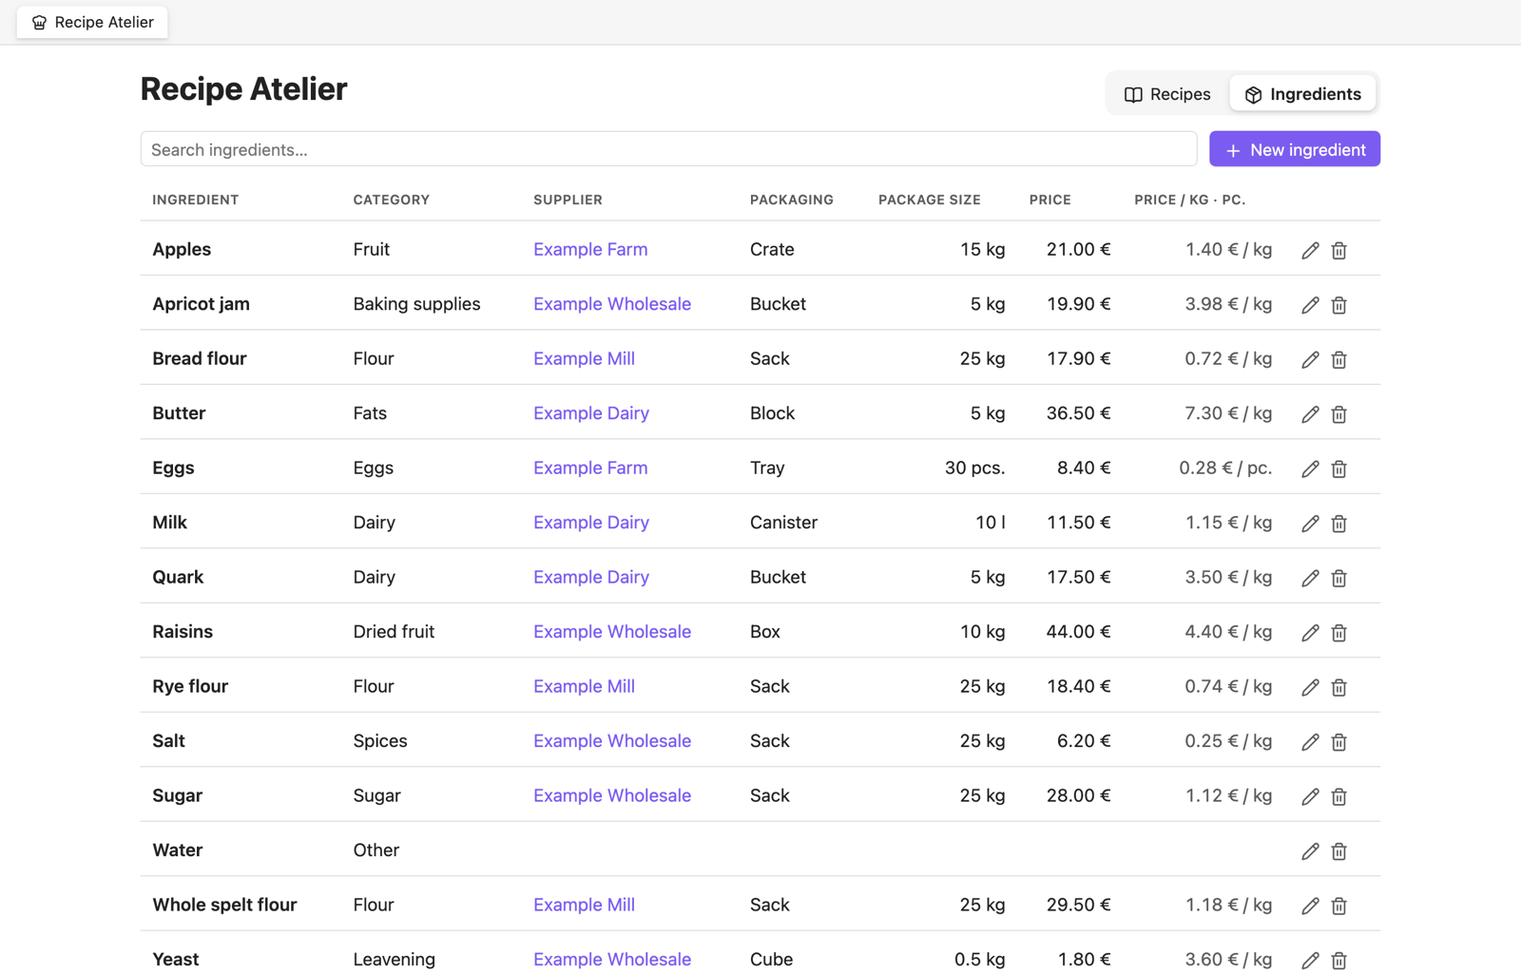
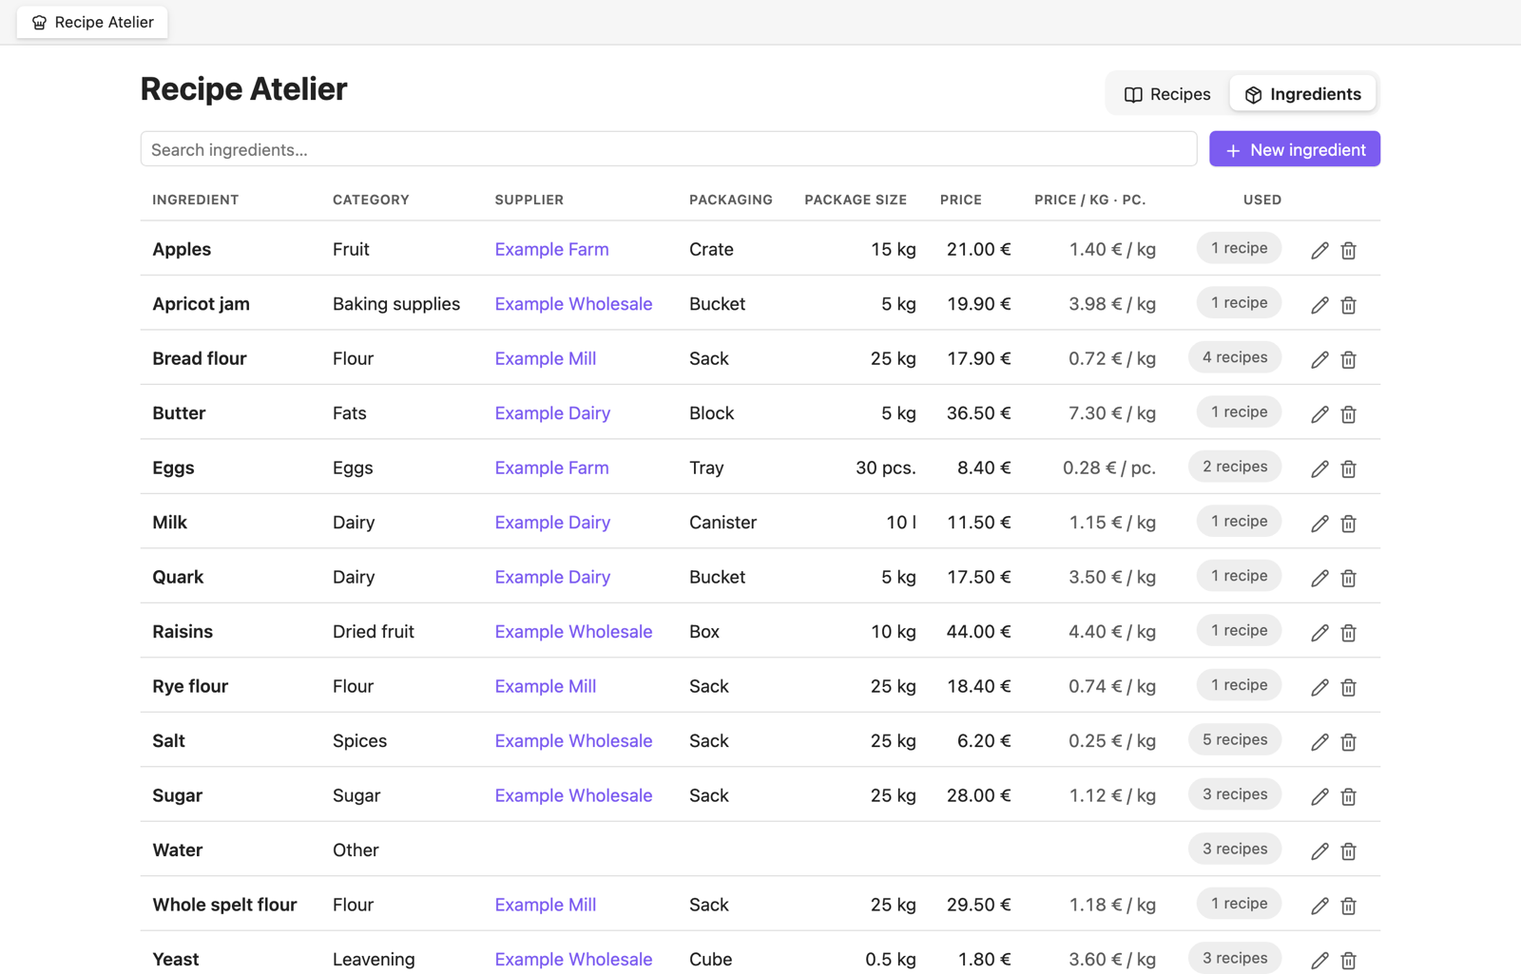
1.1.0: show where an ingredient is used, navigate from ingredient to recipes

diff --git a/main.js b/main.js
@@ -301,7 +301,19 @@ const EN = {
  "Komma getrennt. Jede Kategorie bekommt einen Unterordner im Rezeptordner.": "Comma separated. Each category gets a sub-folder in the recipe folder.",
  "Sprache": "Language",
  "Sprache der Oberfläche. „Automatisch“ folgt der Sprache von Obsidian.": "Language of the interface. “Automatic” follows the language of Obsidian.",
- "Automatisch (wie Obsidian)": "Automatic (same as Obsidian)"
+ "Automatisch (wie Obsidian)": "Automatic (same as Obsidian)",
+ "1 Rezept": "1 recipe",
+ " Rezepte": " recipes",
+ "Verwendet in 1 Rezept": "Used in 1 recipe",
+ "Verwendet in ": "Used in ",
+ " Rezepten": " recipes",
+ "Verwendet": "Used",
+ "Nach Verwendung sortieren": "Sort by usage",
+ "Nicht verwendet": "Not used",
+ "Verwendung: ": "Usage: ",
+ "Keine Rezepte verwenden diesen Rohstoff.": "No recipe uses this ingredient.",
+ "Gesamt in allen Rezepten: ": "Total across all recipes: ",
+ "Rezepte mit diesem Rohstoff": "Recipes using this ingredient"
 };
 /** Schlüssel sind die deutschen Texte; bei Englisch wird übersetzt. */
 const tx = (k) => (LANG === "de" ? k : EN[k] !== undefined ? EN[k] : k);
@@ -419,7 +431,7 @@ function newRecipe(title, category) {
     totalLabel: "", parts: [], params: [], steps: [], photo: "", notes: "",
   };
   if (catKind(category) === "bake") {
-    const p = newPart("Teig", "percent");
+    const p = newPart(tx("Teig"), "percent");
     p.baseRef = "ingredient";
     p.ingredients.push(newIng({ name: tx("Mehl"), percent: 100, base: true }));
     p.ingredients.push(newIng({ name: tx("Wasser"), percent: 60 }));
@@ -924,6 +936,33 @@ class RecipeManagerPlugin extends Plugin {
     this.ingredients().forEach((i) => { const p = this.pricePerBase(i); if (p) m.set(i.name.trim().toLowerCase(), p); });
     return m;
   }
+  /** Rohstoff-Verwendung: Name (klein) → Map(Rezeptpfad → {file, title, category, parts, grams, amounts}) */
+  async usageIndex() {
+    const idx = new Map();
+    for (const f of this.recipeFiles()) {
+      let data = null;
+      try { data = extractData(await this.app.vault.cachedRead(f)); } catch (e) { data = null; }
+      if (!data) continue;
+      const calc = calcRecipe(data);
+      data.parts.forEach((p) => {
+        const pc = calc.parts[p.id];
+        if (!pc) return;
+        pc.rows.forEach((row) => {
+          const n = String(row.ing.name || "").trim().toLowerCase();
+          if (!n || row.ing.refPart) return;
+          let e = idx.get(n);
+          if (!e) { e = new Map(); idx.set(n, e); }
+          let u = e.get(f.path);
+          if (!u) { u = { file: f, title: data.title || f.basename, category: data.category, parts: [], grams: 0, amounts: [] }; e.set(f.path, u); }
+          u.parts.push(p.name);
+          if (row.grams != null) u.grams += row.grams;
+          else if (row.amount) u.amounts.push(fmt(row.amount, 3) + " " + row.unit);
+        });
+      });
+    }
+    return idx;
+  }
+
   async saveIngredient(existing, v) {
     const name = safeName(v.name);
     if (!name) throw new Error(tx("Name fehlt"));
@@ -1047,16 +1086,16 @@ function renderRecipeCard(container, data, plugin, sourcePath) {
     };
     if (calc.total > 0) stat(r.totalLabel || tx("Gesamtgewicht"), plugin.weightText(calc.total));
     if (r.yield.mode === "pieces" && calc.pieces != null) {
-      stat("Stück à " + fmt(r.yield.pieceWeight, 1) + " g", tx("ca. ") + fmt(calc.pieces, 1));
-      if (calc.bakedPiece) stat("Gebäckgewicht (−" + fmt(r.yield.bakeLoss, 1) + " %)", fmt(calc.bakedPiece, 1) + " g");
+      stat(tx("Stück à ") + fmt(r.yield.pieceWeight, 1) + " g", tx("ca. ") + fmt(calc.pieces, 1));
+      if (calc.bakedPiece) stat(tx("Gebäckgewicht (−") + fmt(r.yield.bakeLoss, 1) + " %)", fmt(calc.bakedPiece, 1) + " g");
     }
-    if (r.yield.mode === "portions" && r.yield.portions) stat("Portionen", fmt(r.yield.portions, 1));
-    if (r.yield.mode === "trays" && r.yield.portions) stat("Blech" + (r.yield.traySize ? " " + r.yield.traySize : ""), fmt(r.yield.portions, 2));
+    if (r.yield.mode === "portions" && r.yield.portions) stat(tx("Portionen"), fmt(r.yield.portions, 1));
+    if (r.yield.mode === "trays" && r.yield.portions) stat(tx("Blech") + (r.yield.traySize ? " " + r.yield.traySize : ""), fmt(r.yield.portions, 2));
     if (hasCost) {
-      stat("Materialkosten", plugin.money(cost));
-      if (r.yield.mode === "pieces" && calc.pieces) stat("pro Stück", plugin.money(cost / calc.pieces));
-      if (r.yield.mode === "portions" && r.yield.portions) stat("pro Portion", plugin.money(cost / r.yield.portions));
-      if (r.yield.mode === "trays" && r.yield.portions) stat("pro Blech", plugin.money(cost / r.yield.portions));
+      stat(tx("Materialkosten"), plugin.money(cost));
+      if (r.yield.mode === "pieces" && calc.pieces) stat(tx("pro Stück"), plugin.money(cost / calc.pieces));
+      if (r.yield.mode === "portions" && r.yield.portions) stat(tx("pro Portion"), plugin.money(cost / r.yield.portions));
+      if (r.yield.mode === "trays" && r.yield.portions) stat(tx("pro Blech"), plugin.money(cost / r.yield.portions));
     }
 
     const scaler = root.createDiv("rm-scaler");
@@ -1303,20 +1342,43 @@ class DashboardView extends ItemView {
   renderIngredients(el) {
     this.toolbar(el, tx("Rohstoffe suchen …"), tx("Neuer Rohstoff"), () => new IngredientModal(this.app, this.plugin, null).open());
     this.body = el.createDiv();
+    this.usage = null;
+    this.ingSort = this.ingSort || "name";
     this.renderIngredientRows();
+    this.plugin.usageIndex().then((idx) => {
+      this.usage = idx;
+      if (this.tab === "ingredients" && this.body && this.body.isConnected) this.renderIngredientRows();
+    });
+  }
+
+  usageFor(name) {
+    const e = this.usage && this.usage.get(String(name).trim().toLowerCase());
+    return e ? Array.from(e.values()) : [];
   }
 
   renderIngredientRows() {
     this.body.empty();
     const q = this.search.toLowerCase();
     const list = this.plugin.ingredients().filter((i) => !q || (i.name + " " + i.kategorie + " " + i.lieferant).toLowerCase().includes(q));
+    if (this.usage && this.ingSort !== "name") {
+      const cnt = (i) => this.usageFor(i.name).length;
+      list.sort((a, b) => (this.ingSort === "usage-desc" ? cnt(b) - cnt(a) : cnt(a) - cnt(b)) || a.name.localeCompare(b.name, LANG));
+    }
     if (!list.length) {
       this.body.createDiv({ cls: "rm-empty", text: tx("Noch keine Rohstoffe. Lege Mehl, Hefe, Butter … mit Preis und Lieferant an.") });
       return;
     }
     const t = this.body.createEl("table", { cls: "rm-table rm-table-wide" });
     const hr = t.createEl("thead").createEl("tr");
-    [tx("Rohstoff"), tx("Kategorie"), tx("Lieferant"), tx("Verpackung"), tx("Packungsgewicht"), tx("Preis"), tx("Preis / kg · Stk."), ""].forEach((h) => hr.createEl("th", { text: h }));
+    [tx("Rohstoff"), tx("Kategorie"), tx("Lieferant"), tx("Verpackung"), tx("Packungsgewicht"), tx("Preis"), tx("Preis / kg · Stk."), "usage", ""].forEach((h) => {
+      if (h !== "usage") { hr.createEl("th", { text: h }); return; }
+      const arrow = this.ingSort === "usage-desc" ? " ↓" : this.ingSort === "usage-asc" ? " ↑" : "";
+      const th = hr.createEl("th", { cls: "rm-num rm-sortable", text: tx("Verwendet") + arrow, attr: { title: tx("Nach Verwendung sortieren") } });
+      th.onclick = () => {
+        this.ingSort = this.ingSort === "name" ? "usage-desc" : this.ingSort === "usage-desc" ? "usage-asc" : "name";
+        this.renderIngredientRows();
+      };
+    });
     const tb = t.createEl("tbody");
     list.forEach((i) => {
       const tr = tb.createEl("tr");
@@ -1334,6 +1396,16 @@ class DashboardView extends ItemView {
       let per = "";
       if (pb) per = pb.kind === "mass" ? this.plugin.money(pb.perUnit * 1000) + tx(" / kg") : this.plugin.money(pb.perUnit) + tx(" / Stk.");
       tr.createEl("td", { cls: "rm-num rm-muted", text: per });
+      const ut = tr.createEl("td", { cls: "rm-num" });
+      if (!this.usage) ut.setText("…");
+      else {
+        const uses = this.usageFor(i.name);
+        if (!uses.length) { ut.createSpan({ cls: "rm-muted", text: "–", attr: { title: tx("Nicht verwendet") } }); tr.addClass("rm-unused"); }
+        else {
+          const ub = ut.createEl("button", { cls: "rm-chip rm-chip-btn", text: recipeCount(uses.length) });
+          ub.onclick = () => new UsageModal(this.app, this.plugin, i.name, uses).open();
+        }
+      }
       const act = tr.createEl("td", { cls: "rm-row-actions" });
       const mk = (icon, title, fn) => {
         const x = act.createEl("button", { cls: "rm-icon-btn", attr: { "aria-label": title } });
@@ -1366,12 +1438,12 @@ class ConfirmModal extends Modal {
 class VariantModal extends Modal {
   constructor(app, plugin, file) { super(app); this.plugin = plugin; this.file = file; }
   onOpen() {
-    this.titleEl.setText("Variante erstellen");
+    this.titleEl.setText(tx("Variante erstellen"));
     this.contentEl.createEl("p", { cls: "rm-muted", text: tx("Erstellt eine vollständige Kopie von „") + this.file.basename + tx("“ (Teile, Zutaten, Schritte, Fotos). Danach kannst du die Variante im Editor ändern; sie bleibt mit dem Original verknüpft.") });
     let title = this.file.basename + tx(" (Variante)"), open = true;
     new Setting(this.contentEl).setName(tx("Name der Variante")).addText((t) => { t.setValue(title); t.inputEl.addClass("rm-w100"); t.onChange((v) => (title = v)); setTimeout(() => { t.inputEl.focus(); t.inputEl.select(); }, 50); });
     new Setting(this.contentEl).setName(tx("Danach im Editor öffnen")).addToggle((t) => t.setValue(open).onChange((v) => (open = v)));
-    new Setting(this.contentEl).addButton((b) => b.setButtonText("Variante anlegen").setCta().onClick(async () => {
+    new Setting(this.contentEl).addButton((b) => b.setButtonText(tx("Variante anlegen")).setCta().onClick(async () => {
       try {
         const nf = await this.plugin.createVariant(this.file, title);
         this.close();
@@ -1386,7 +1458,7 @@ class ExportModal extends Modal {
   constructor(app, plugin, preselected) { super(app); this.plugin = plugin; this.pre = new Set((preselected || []).map((f) => f.path)); }
   onOpen() {
     this.modalEl.addClass("rm-modal-wide");
-    this.titleEl.setText("Rezepte exportieren");
+    this.titleEl.setText(tx("Rezepte exportieren"));
     const files = this.plugin.recipeFiles().sort((a, b) => a.path.localeCompare(b.path, LANG));
     this.sel = new Set(this.pre);
     const c = this.contentEl;
@@ -1462,7 +1534,7 @@ class ImportModal extends Modal {
   constructor(app, plugin) { super(app); this.plugin = plugin; this.bundle = null; }
   onOpen() {
     this.modalEl.addClass("rm-modal-wide");
-    this.titleEl.setText("Rezepte importieren");
+    this.titleEl.setText(tx("Rezepte importieren"));
     this.draw();
   }
   draw() {
@@ -1535,7 +1607,7 @@ class ImportModal extends Modal {
 class NewRecipeModal extends Modal {
   constructor(app, plugin) { super(app); this.plugin = plugin; }
   onOpen() {
-    this.titleEl.setText("Neues Rezept");
+    this.titleEl.setText(tx("Neues Rezept"));
     let title = "", cat = this.plugin.settings.categories[0] || tx("Backen");
     new Setting(this.contentEl).setName(tx("Titel")).addText((t) => { t.setPlaceholder(tx("z. B. Roggenbrot")); t.onChange((v) => (title = v)); setTimeout(() => t.inputEl.focus(), 50); });
     new Setting(this.contentEl).setName(tx("Kategorie")).addDropdown((d) => {
@@ -1547,7 +1619,43 @@ class NewRecipeModal extends Modal {
       this.close();
       this.plugin.openEditor(f);
     };
-    new Setting(this.contentEl).addButton((b) => b.setButtonText("Anlegen").setCta().onClick(go));
+    new Setting(this.contentEl).addButton((b) => b.setButtonText(tx("Anlegen")).setCta().onClick(go));
+  }
+}
+
+function recipeCount(n) { return n === 1 ? tx("1 Rezept") : n + tx(" Rezepte"); }
+function usedIn(n) { return n === 1 ? tx("Verwendet in 1 Rezept") : tx("Verwendet in ") + n + tx(" Rezepten"); }
+function usageAmount(plugin, u) {
+  const parts = [];
+  if (u.grams > 0) parts.push(plugin.weightText(u.grams));
+  u.amounts.forEach((a) => parts.push(a));
+  return parts.join(" + ");
+}
+function renderUsageList(el, plugin, uses, onNavigate) {
+  const list = el.createDiv("rm-usage-list");
+  uses.slice().sort((a, b) => a.title.localeCompare(b.title, LANG)).forEach((u) => {
+    const row = list.createDiv("rm-usage-row");
+    const a = row.createEl("a", { cls: "rm-usage-title", text: u.title, href: "#" });
+    a.onclick = (ev) => { ev.preventDefault(); if (onNavigate) onNavigate(); plugin.openNote(u.file); };
+    if (u.category) row.createSpan({ cls: "rm-chip", text: u.category });
+    row.createSpan({ cls: "rm-muted rm-usage-part", text: Array.from(new Set(u.parts)).join(", ") });
+    row.createSpan({ cls: "rm-num rm-usage-amount", text: usageAmount(plugin, u) });
+    const ed = row.createEl("button", { cls: "rm-icon-btn", attr: { "aria-label": tx("Bearbeiten") } });
+    setIcon(ed, "pencil");
+    ed.onclick = () => { if (onNavigate) onNavigate(); plugin.openEditor(u.file); };
+  });
+}
+
+class UsageModal extends Modal {
+  constructor(app, plugin, name, uses) { super(app); this.plugin = plugin; this.name = name; this.uses = uses; }
+  onOpen() {
+    this.modalEl.addClass("rm-modal-wide");
+    this.titleEl.setText(tx("Verwendung: ") + this.name);
+    const c = this.contentEl;
+    if (!this.uses.length) { c.createEl("p", { cls: "rm-muted", text: tx("Keine Rezepte verwenden diesen Rohstoff.") }); return; }
+    const total = this.uses.reduce((s, u) => s + u.grams, 0);
+    c.createEl("p", { text: usedIn(this.uses.length) + (total > 0 ? " · " + tx("Gesamt in allen Rezepten: ") + this.plugin.weightText(total) : "") });
+    renderUsageList(c, this.plugin, this.uses, () => this.close());
   }
 }
 
@@ -1564,17 +1672,31 @@ class IngredientModal extends Modal {
     const c = this.contentEl;
     const txt = (name, key, ph, desc) => new Setting(c).setName(name).setDesc(desc || "").addText((t) => { t.setPlaceholder(ph || "").setValue(String(v[key] || "")); t.onChange((x) => (v[key] = x)); });
     txt("Name", "name", tx("z. B. Weizenmehl W700"));
-    txt("Kategorie", "kategorie", tx("Mehl, Milchprodukte, Gewürze …"));
-    txt("Lieferant", "lieferant", tx("Name des Lieferanten"));
-    txt("Lieferanten-Homepage", "url", "https://…");
-    txt("Verpackungseinheit", "verpackung", tx("Sack, Karton, Eimer, Packung …"));
+    txt(tx("Kategorie"), "kategorie", tx("Mehl, Milchprodukte, Gewürze …"));
+    txt(tx("Lieferant"), "lieferant", tx("Name des Lieferanten"));
+    txt(tx("Lieferanten-Homepage"), "url", "https://…");
+    txt(tx("Verpackungseinheit"), "verpackung", tx("Sack, Karton, Eimer, Packung …"));
     new Setting(c).setName(tx("Verpackungsgewicht / -inhalt")).addText((t) => { t.setPlaceholder("25").setValue(v.gewicht ? String(v.gewicht).replace(".", ",") : ""); t.inputEl.addClass("rm-w90"); t.onChange((x) => (v.gewicht = parseNum(x))); })
       .addDropdown((d) => { packUnits().forEach((u) => d.addOption(u, u)); d.setValue(v.einheit); d.onChange((x) => (v.einheit = x)); });
     new Setting(c).setName(tx("Preis pro Verpackung")).setDesc(tx("in ") + this.plugin.settings.currency).addText((t) => { t.setPlaceholder("0,00").setValue(v.preis ? String(v.preis).replace(".", ",") : ""); t.inputEl.addClass("rm-w90"); t.onChange((x) => (v.preis = parseNum(x))); });
-    txt("Artikelnummer", "artikel");
-    txt("Allergene", "allergene", tx("z. B. Gluten, Milch, Ei"));
-    txt("Notiz", "notiz");
-    new Setting(c).addButton((b) => b.setButtonText("Speichern").setCta().onClick(async () => {
+    txt(tx("Artikelnummer"), "artikel");
+    txt(tx("Allergene"), "allergene", tx("z. B. Gluten, Milch, Ei"));
+    txt(tx("Notiz"), "notiz");
+    if (e) {
+      const box = c.createDiv("rm-usage-box");
+      box.createDiv({ cls: "rm-label", text: tx("Rezepte mit diesem Rohstoff") });
+      const holder = box.createDiv({ cls: "rm-muted", text: "…" });
+      this.plugin.usageIndex().then((idx) => {
+        const entry = idx.get(String(e.name).trim().toLowerCase());
+        const uses = entry ? Array.from(entry.values()) : [];
+        holder.empty();
+        if (!uses.length) { holder.setText(tx("Nicht verwendet")); return; }
+        holder.removeClass("rm-muted");
+        holder.createDiv({ cls: "rm-strong", text: usedIn(uses.length) });
+        renderUsageList(holder, this.plugin, uses, () => this.close());
+      });
+    }
+    new Setting(c).addButton((b) => b.setButtonText(tx("Speichern")).setCta().onClick(async () => {
       try { await this.plugin.saveIngredient(this.ex, v); this.close(); } catch (err) { new Notice(err.message); }
     }));
   }
@@ -1616,7 +1738,7 @@ class RecipeEditorView extends ItemView {
   /* --- Speichern --- */
   changed() { this.refresh(); this.scheduleSave(); }
   scheduleSave() {
-    if (this.status) this.status.setText("Ungespeichert …");
+    if (this.status) this.status.setText(tx("Ungespeichert …"));
     clearTimeout(this.saveTimer);
     this.saveTimer = setTimeout(() => this.flush(), 700);
   }
@@ -1626,7 +1748,7 @@ class RecipeEditorView extends ItemView {
     this.saveTimer = null;
     try {
       await this.plugin.saveRecipe(this.file, this.data);
-      if (this.status) this.status.setText("Gespeichert ✓");
+      if (this.status) this.status.setText(tx("Gespeichert ✓"));
       this.leaf.updateHeader && this.leaf.updateHeader();
     } catch (e) { new Notice(tx("Speichern fehlgeschlagen: ") + e.message); }
   }
@@ -1720,7 +1842,7 @@ class RecipeEditorView extends ItemView {
     setIcon(addPart.createSpan(), "plus");
     addPart.createSpan({ text: tx("Teil hinzufügen (z. B. Füllung)") });
     addPart.onclick = () => {
-      const np = newPart("Teil " + (d.parts.length + 1), "amount");
+      const np = newPart(tx("Teil ") + (d.parts.length + 1), "amount");
       np.baseRef = "total";
       np.ingredients.push(newIng());
       d.parts.push(np);
@@ -1752,8 +1874,8 @@ class RecipeEditorView extends ItemView {
       this.costTxt = l.createDiv({ cls: "rm-cost-main" });
       this.costSub = l.createDiv({ cls: "rm-muted" });
       this.updaters.push(() => {
-        if (this.cost == null) { this.costTxt.setText("Keine Kosten berechenbar"); this.costSub.setText("Lege Rohstoffe mit Preis an – Zutaten mit gleichem Namen werden automatisch zugeordnet."); return; }
-        this.costTxt.setText("Materialkosten: " + this.plugin.money(this.cost));
+        if (this.cost == null) { this.costTxt.setText(tx("Keine Kosten berechenbar")); this.costSub.setText(tx("Lege Rohstoffe mit Preis an – Zutaten mit gleichem Namen werden automatisch zugeordnet.")); return; }
+        this.costTxt.setText(tx("Materialkosten: ") + this.plugin.money(this.cost));
         const c = this.calc, y = d.yield, parts = [];
         if (c.pieces) parts.push(this.plugin.money(this.cost / c.pieces) + tx(" pro Stück"));
         if (y.mode === "portions" && y.portions) parts.push(this.plugin.money(this.cost / y.portions) + tx(" pro Portion"));
@@ -2078,7 +2200,7 @@ class RecipeEditorView extends ItemView {
     const sf = this.field(r3, tx("Alle Mengen mit Faktor multiplizieren"));
     const sin = sf.createEl("input", { cls: "rm-input rm-input-sm", type: "text", value: "2" });
     const sb = r3.createEl("button", { cls: "rm-btn" });
-    sb.setText("Anwenden");
+    sb.setText(tx("Anwenden"));
     sb.onclick = () => {
       const f = parseNum(sin.value);
       if (!(f > 0)) return new Notice(tx("Faktor > 0 eingeben"));
@@ -2111,7 +2233,7 @@ class RecipeEditorView extends ItemView {
     add.onclick = () => { d.params.push({ label: "", value: "" }); this.scheduleSave(); this.render(); };
     if (!d.params.length && catKind(d.category) === "bake") {
       const q = el.createEl("button", { cls: "rm-btn rm-btn-sm" });
-      q.setText("Standard-Backparameter einfügen");
+      q.setText(tx("Standard-Backparameter einfügen"));
       q.onclick = () => {
         [tx("Teigtemperatur"), tx("Teigruhe"), tx("Backtemperatur"), tx("Backzeit")].forEach((s) => d.params.push({ label: s, value: "" }));
         this.scheduleSave(); this.render();
@@ -2159,16 +2281,16 @@ class RMSettingTab extends PluginSettingTab {
       .addDropdown((d) => d.addOption("auto", tx("Automatisch (wie Obsidian)")).addOption("de", "Deutsch").addOption("en", "English").setValue(s.language || "auto")
         .onChange(async (v) => { s.language = v; setLang(v); await this.plugin.saveSettings(); this.display(); }));
     const text = (name, desc, key) => new Setting(c).setName(name).setDesc(desc).addText((t) => t.setValue(s[key]).onChange(async (v) => { s[key] = v.trim(); await this.plugin.saveSettings(); }));
-    text("Rezeptordner", tx("Hier werden neue Rezepte angelegt."), "recipeFolder");
-    text("Rohstoffordner", tx("Rohstoffe werden als Notizen mit Eigenschaften gespeichert."), "ingredientFolder");
-    text("Bilderordner", tx("Fotos von Endergebnis und Arbeitsschritten."), "imageFolder");
+    text(tx("Rezeptordner"), tx("Hier werden neue Rezepte angelegt."), "recipeFolder");
+    text(tx("Rohstoffordner"), tx("Rohstoffe werden als Notizen mit Eigenschaften gespeichert."), "ingredientFolder");
+    text(tx("Bilderordner"), tx("Fotos von Endergebnis und Arbeitsschritten."), "imageFolder");
     new Setting(c).setName(tx("Mengenanzeige (Prozent-Modus)")).setDesc(tx("Einheit für Mengen in Bäckerrezepten."))
       .addDropdown((d) => d.addOption("kg", tx("Kilogramm (0,470 kg)")).addOption("g", tx("Gramm (470 g)")).setValue(s.weightUnit).onChange(async (v) => { s.weightUnit = v; await this.plugin.saveSettings(); }));
-    text("Währungssymbol", "", "currency");
+    text(tx("Währungssymbol"), "", "currency");
     new Setting(c).setName(tx("Kosten anzeigen")).setDesc(tx("Materialkosten aus den Rohstoffpreisen berechnen."))
       .addToggle((t) => t.setValue(s.showCost).onChange(async (v) => { s.showCost = v; await this.plugin.saveSettings(); }));
     new Setting(c).setName(tx("Rezepte nach Kategorie sortieren")).setDesc(tx("Verschiebt alle vorhandenen Rezepte in Unterordner ihrer Kategorie."))
-      .addButton((b) => b.setButtonText("Jetzt sortieren").onClick(async () => { const n = await this.plugin.moveAllToCategoryFolders(); new Notice(n + tx(" Rezept(e) verschoben")); }));
+      .addButton((b) => b.setButtonText(tx("Jetzt sortieren")).onClick(async () => { const n = await this.plugin.moveAllToCategoryFolders(); new Notice(n + tx(" Rezept(e) verschoben")); }));
     new Setting(c).setName(tx("Kategorien")).setDesc(tx("Komma getrennt. Jede Kategorie bekommt einen Unterordner im Rezeptordner."))
       .addText((t) => t.setValue(s.categories.join(", ")).onChange(async (v) => {
         const l = v.split(",").map((x) => x.trim()).filter(Boolean);

diff --git a/styles.css b/styles.css
@@ -174,3 +174,14 @@ body.is-mobile .rm-tile-actions { display: flex; }
 }
 body.is-mobile .rm-icon-btn { padding: 8px; }
 body.is-mobile .rm-edit-table input[type="text"] { height: 36px; }
+
+/* Rohstoff → Rezepte */
+.rm-sortable { cursor: pointer; user-select: none; }
+.rm-sortable:hover { color: var(--text-normal); }
+.rm-unused .rm-strong { color: var(--text-muted); font-weight: 400; }
+.rm-usage-box { margin: 14px 0 6px; padding-top: 10px; border-top: 1px solid var(--background-modifier-border); }
+.rm-usage-list { display: flex; flex-direction: column; gap: 2px; margin-top: 6px; max-height: 320px; overflow-y: auto; }
+.rm-usage-row { display: flex; align-items: center; gap: 10px; padding: 5px 4px; border-bottom: 1px solid var(--background-modifier-border); }
+.rm-usage-title { font-weight: 600; flex: 0 1 auto; cursor: pointer; }
+.rm-usage-part { flex: 1 1 auto; font-size: 0.85em; }
+.rm-usage-amount { flex: 0 0 auto; }

diff --git a/README.md b/README.md
@@ -33,6 +33,7 @@ Recipes are normal notes in your vault, ingredients are normal notes with proper
 
 ### Ingredients and costs
 - Ingredient database: category, supplier **with website link**, packaging unit, package weight, price per package, article number, allergens.
+- **Where used:** see in how many recipes an ingredient is used, sort by usage, and jump from an ingredient to its recipes.
 - Price per kg / piece is calculated; recipes show **material cost** per recipe, per piece, per portion and per tray.
 
 ![Ingredients](https://raw.githubusercontent.com/MarioLung/obsidian-recipe-atelier/main/docs/screenshots/07-ingredients.png)

diff --git a/CHANGELOG.md b/CHANGELOG.md
@@ -1,5 +1,10 @@
 # Changelog
 
+## 1.1.0
+- Ingredient → recipes: the ingredient list shows in how many recipes each ingredient is used (sortable column). Click the count to see the recipes with amounts and jump to the recipe or its editor.
+- The ingredient dialog lists the recipes that use the ingredient.
+- Fixed some remaining untranslated texts.
+
 ## 1.0.3
 - Added CONTRIBUTING.md (contribution guide). No functional changes.
 
